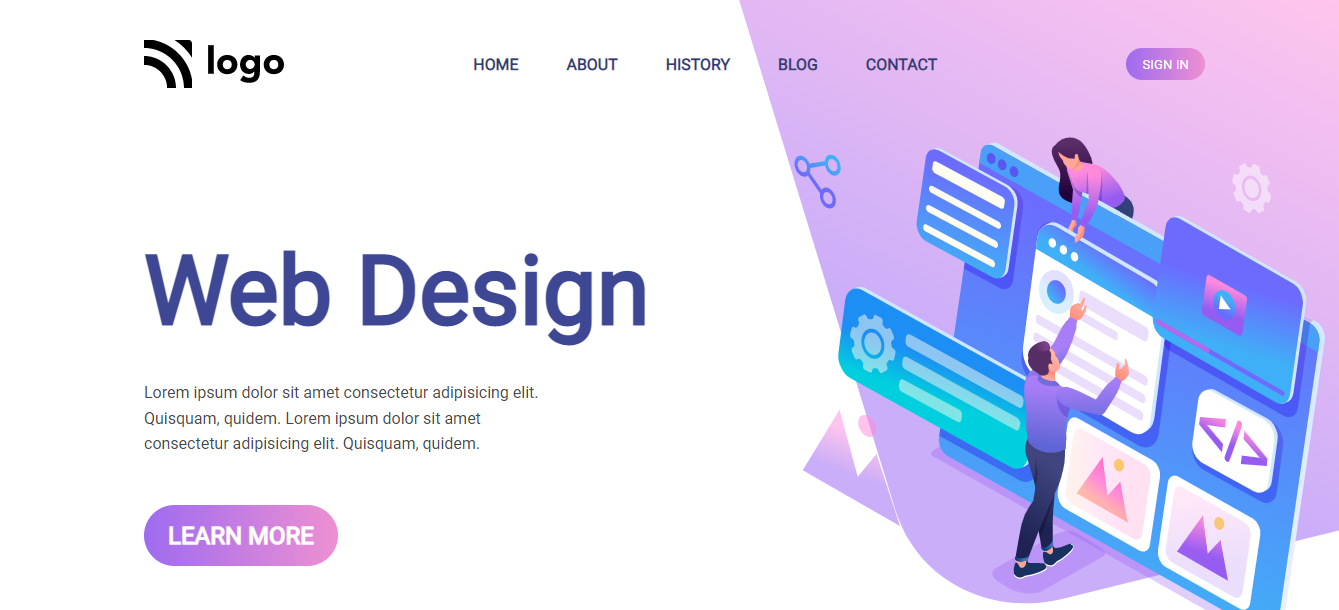
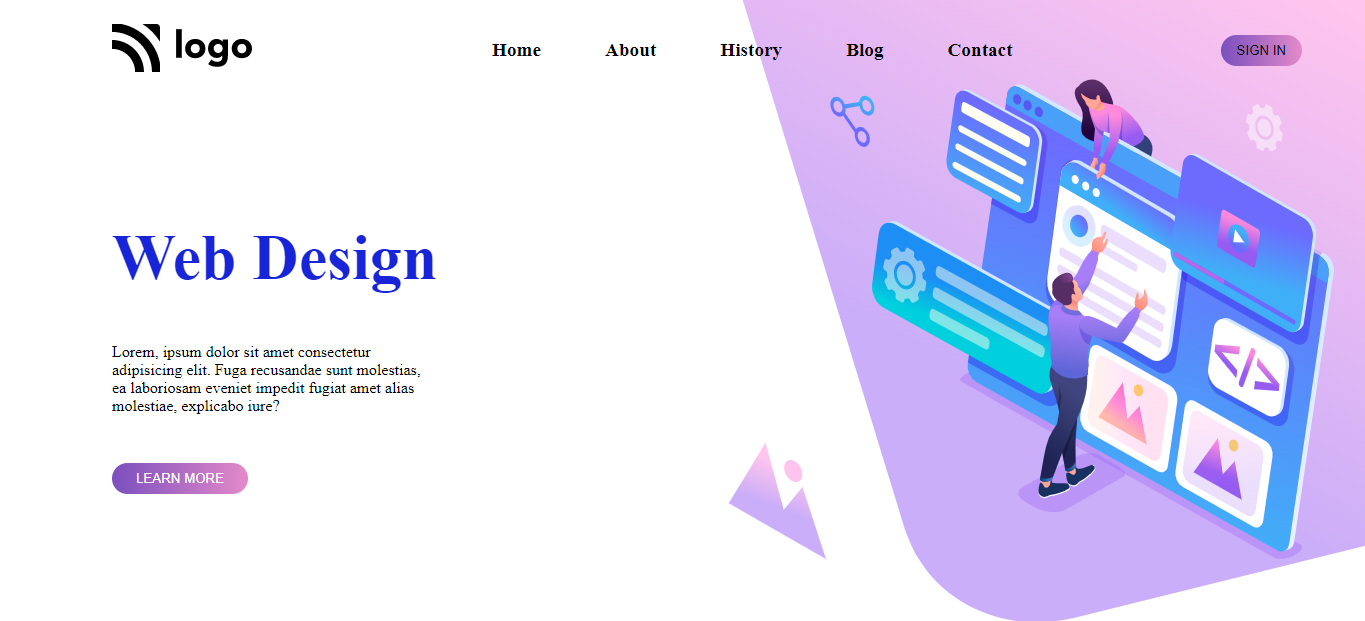
updated README.md

diff --git a/index.html b/index.html
@@ -4,46 +4,61 @@
     <meta charset="UTF-8" />
     <meta http-equiv="X-UA-Compatible" content="IE=edge" />
     <meta name="viewport" content="width=device-width, initial-scale=1.0" />
-    <link rel="stylesheet" href="css/index.css" />
-    <link rel="preconnect" href="https://fonts.googleapis.com" />
-    <link rel="preconnect" href="https://fonts.gstatic.com" crossorigin />
-    <link
-      href="https://fonts.googleapis.com/css2?family=Roboto&display=swap"
-      rel="stylesheet"
-    />
-    <title>Design Landing Page</title>
+    <title>Landind Page</title>
+    <link rel="stylesheet" href="./css/style.css" />
   </head>
   <body style="background-image: url(./images/backcover.svg)">
-    <div class="main-div">
-      <nav>
-        <img src="./images/logo.svg" alt="logo" />
-        <div class="nav-items">
-          <h5 class="nav-item">HOME</h5>
-          <h5 class="nav-item">ABOUT</h5>
-          <h5 class="nav-item">HISTORY</h5>
-          <h5 class="nav-item">BLOG</h5>
-          <h5 class="nav-item">CONTACT</h5>
+    <div class="all-content">
+      <nav class="header">
+        <div class="header-logo">
+          <img
+            src="./images/logo.svg"
+            alt="Header Logo"
+            class="header-logo-image"
+          />
         </div>
-        <button class="signin-btn">SIGN IN</button>
+        <div class="header-content">
+          <ul class="nav-items">
+            <li class="nav-item">Home</li>
+            <li class="nav-item">About</li>
+            <li class="nav-item">History</li>
+            <li class="nav-item">Blog</li>
+            <li class="nav-item">Contact</li>
+          </ul>
+        </div>
+        <div class="signin-button">
+          <button type="submit" class="sign-in">SIGN IN</button>
+        </div>
       </nav>
-      <div class="intro-section">
-        <div class="left-section">
-          <h1>Web Design</h1>
-          <h4>
-            Lorem ipsum dolor sit amet consectetur adipisicing elit. Quisquam,
-            quidem. Lorem ipsum dolor sit amet consectetur adipisicing elit.
-            Quisquam, quidem.
-          </h4>
-          <button class="learn-more-btn">LEARN MORE</button>
+
+      <!--content-->
+      <div class="content">
+        <div class="left-content-text">
+          <h1 class="left-content-heading">Web Design</h1>
+          <p class="left-content-description">
+            Lorem, ipsum dolor sit amet consectetur adipisicing elit. Fuga
+            recusandae sunt molestias, ea laboriosam eveniet impedit fugiat amet
+            alias molestiae, explicabo iure?
+          </p>
+          <button type="submit" class="learn-more">LEARN MORE</button>
         </div>
-        <div class="imgs-div">
-          <img src="./images/vector.svg" alt="vector-img" class="vector-img" />
+
+        <div class="left-content-images">
+          <img
+            src="./images/vector.svg"
+            alt="vector image"
+            class="vector-image"
+          />
           <img
             src="./images/vector-dot.svg"
-            alt="vector-dot"
+            alt="vector dot"
             class="vector-dot"
           />
-          <img src="./images/intro-img.svg" alt="intro-img" class="intro-img" />
+          <img
+            src="./images/intro-img.svg"
+            alt="./intro image"
+            class="intro-image"
+          />
         </div>
       </div>
     </div>

diff --git a/css/style.css b/css/style.css
@@ -1,0 +1,88 @@
+* {
+  margin: 0;
+  padding: 0;
+}
+
+body {
+  background-repeat: no-repeat;
+  background-position: right;
+  background-size: contain;
+  height: 96vh;
+}
+
+.header {
+  display: flex;
+  margin: 1.5rem 2rem;
+  align-items: center;
+}
+.header-logo {
+  margin-left: 5rem;
+}
+
+.header-content {
+  margin-left: 15rem;
+}
+
+.nav-items {
+  display: flex;
+  gap: 4rem;
+  font-weight: bold;
+  font-size: 1.2rem;
+}
+
+li {
+  list-style: none;
+}
+
+.signin-button {
+  margin-left: 13rem;
+}
+
+.sign-in {
+  padding: 0.5rem 1rem;
+  border-radius: 1rem;
+  border: none;
+  background: linear-gradient(to right, #7a4fbe, #e48ac9);
+}
+
+.content {
+  margin-top: 9rem;
+  margin-left: 7rem;
+}
+
+.left-content-heading {
+  font-size: 4rem;
+  margin-bottom: 0.5rem;
+  color: #1824d8;
+}
+
+.left-content-description {
+  width: 20rem;
+  margin-top: 3rem;
+  margin-bottom: 3rem;
+}
+
+.learn-more {
+  padding: 0.5rem 1.5rem;
+  background: linear-gradient(to right, #7a4fbe, #e48ac9);
+  border: none;
+  color: #fff;
+  border-radius: 1rem;
+}
+
+.left-content-images {
+  position: absolute;
+  right: 0;
+  top: 5rem;
+}
+
+.intro-image {
+  height: 30rem;
+  margin-right: 2rem;
+}
+
+.vector-dot {
+  position: absolute;
+  bottom: 5rem;
+  left: 3.5rem;
+}

diff --git a/README.md b/README.md
@@ -1,10 +1,10 @@
-# Project 1 - HTML ![HTML Logo](./HTML_logo.png) and CSS ![CSS logo](./CSS_logo.png)
+# Project 8 - HTML ![HTML Logo](./HTML_logo.png) and CSS ![CSS logo](./CSS_logo.png)
 
-> <img src="https://camo.githubusercontent.com/e3c87a17b68e7cd28102ce2d21c84c066d24efb3969f72630b305aca681e01f2/68747470733a2f2f696d672e736869656c64732e696f2f62616467652f50726f6a6563742d382d627269676874677265656e" alt="Project 8" data-canonical-src="https://img.shields.io/badge/Project-8-brightgreen" style="max-width: 100%;">
+> ![Project 8](https://img.shields.io/badge/Project-8-brightgreen)
 >
 > By Naga Rajasekhar
 
-You can find the live deployment link of this web page here --> **[#](#)**
+You can find the live deployment link of this web page here --> **[Live Deployment Link](#)**
 <br/>
 <br/>
 <br/>
